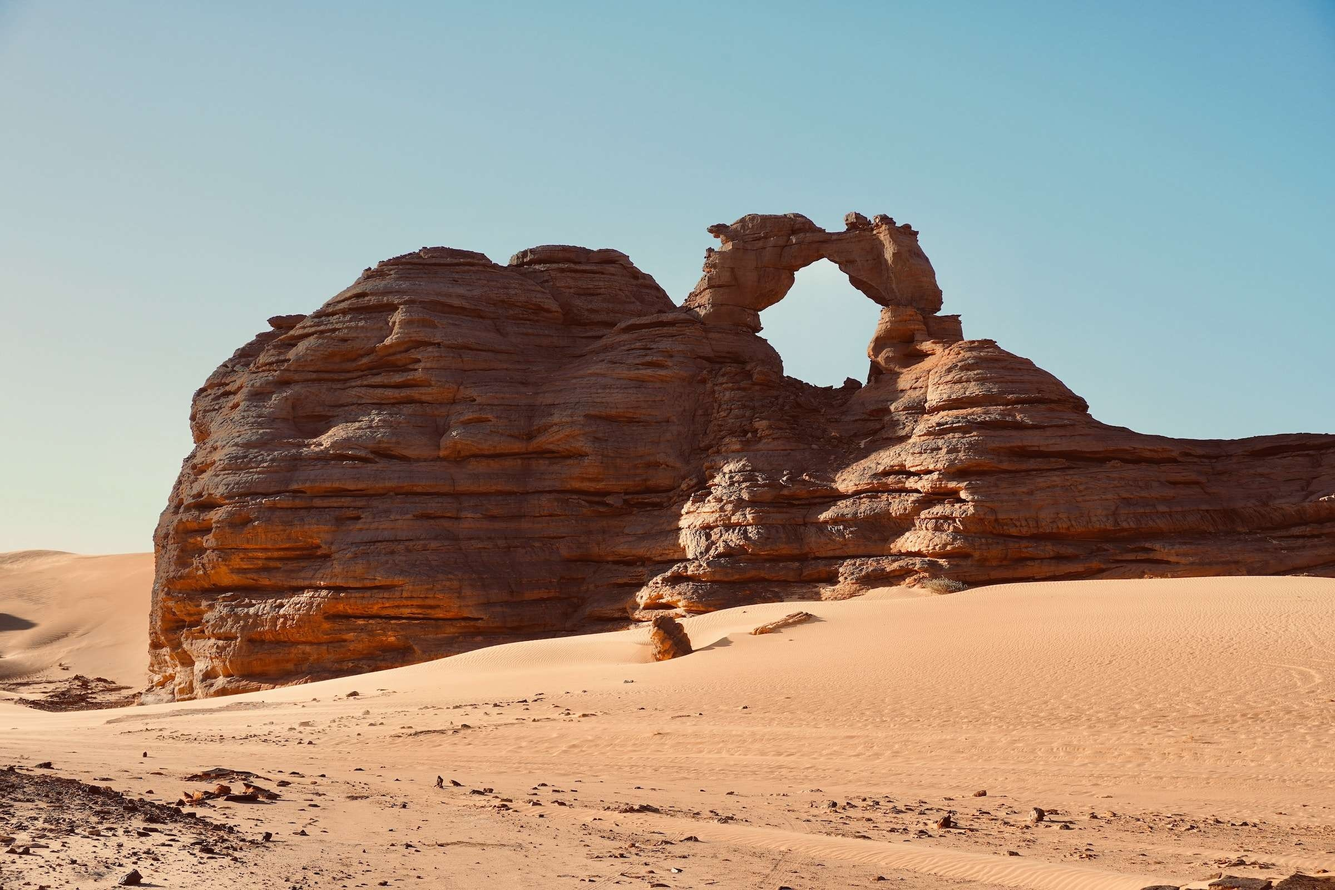
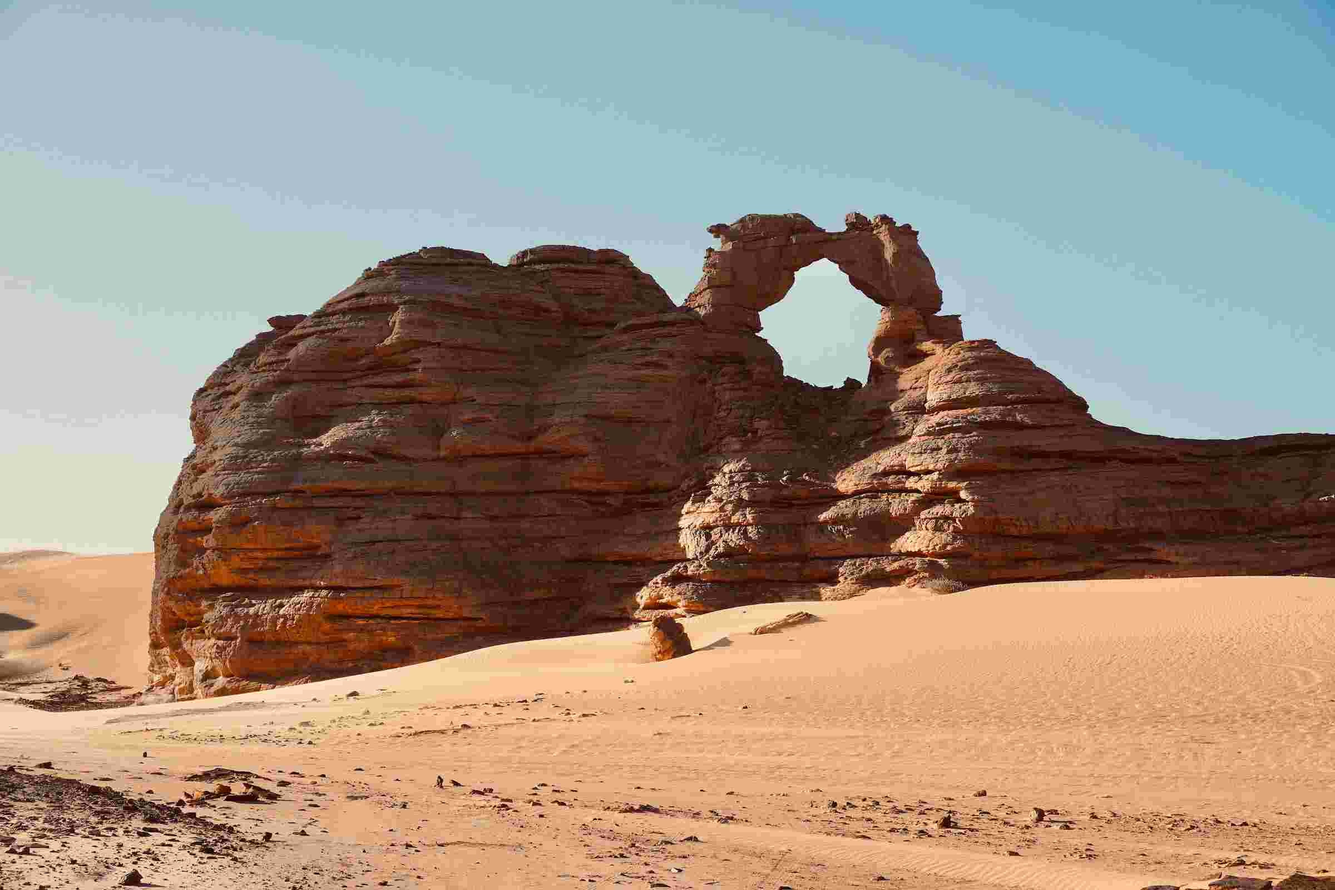
sligh image_compressing changes

diff --git a/image_compression/jpeg_algoritm.py b/image_compression/jpeg_algoritm.py
@@ -19,7 +19,7 @@ def compress_image(image_path, output_path, quality):
 
 # Example usage
 original_img = cv2.imread('jpeg/sample.bmp')
-compressed_img = compress_image('jpeg/sample.bmp', 'jpeg/compressed_image.jpg', quality=60)
+compressed_img = compress_image('jpeg/sample.bmp', 'jpeg/compressed_image.jpg', quality=10)
 
 # Display results
 cv2.waitKey(0)
